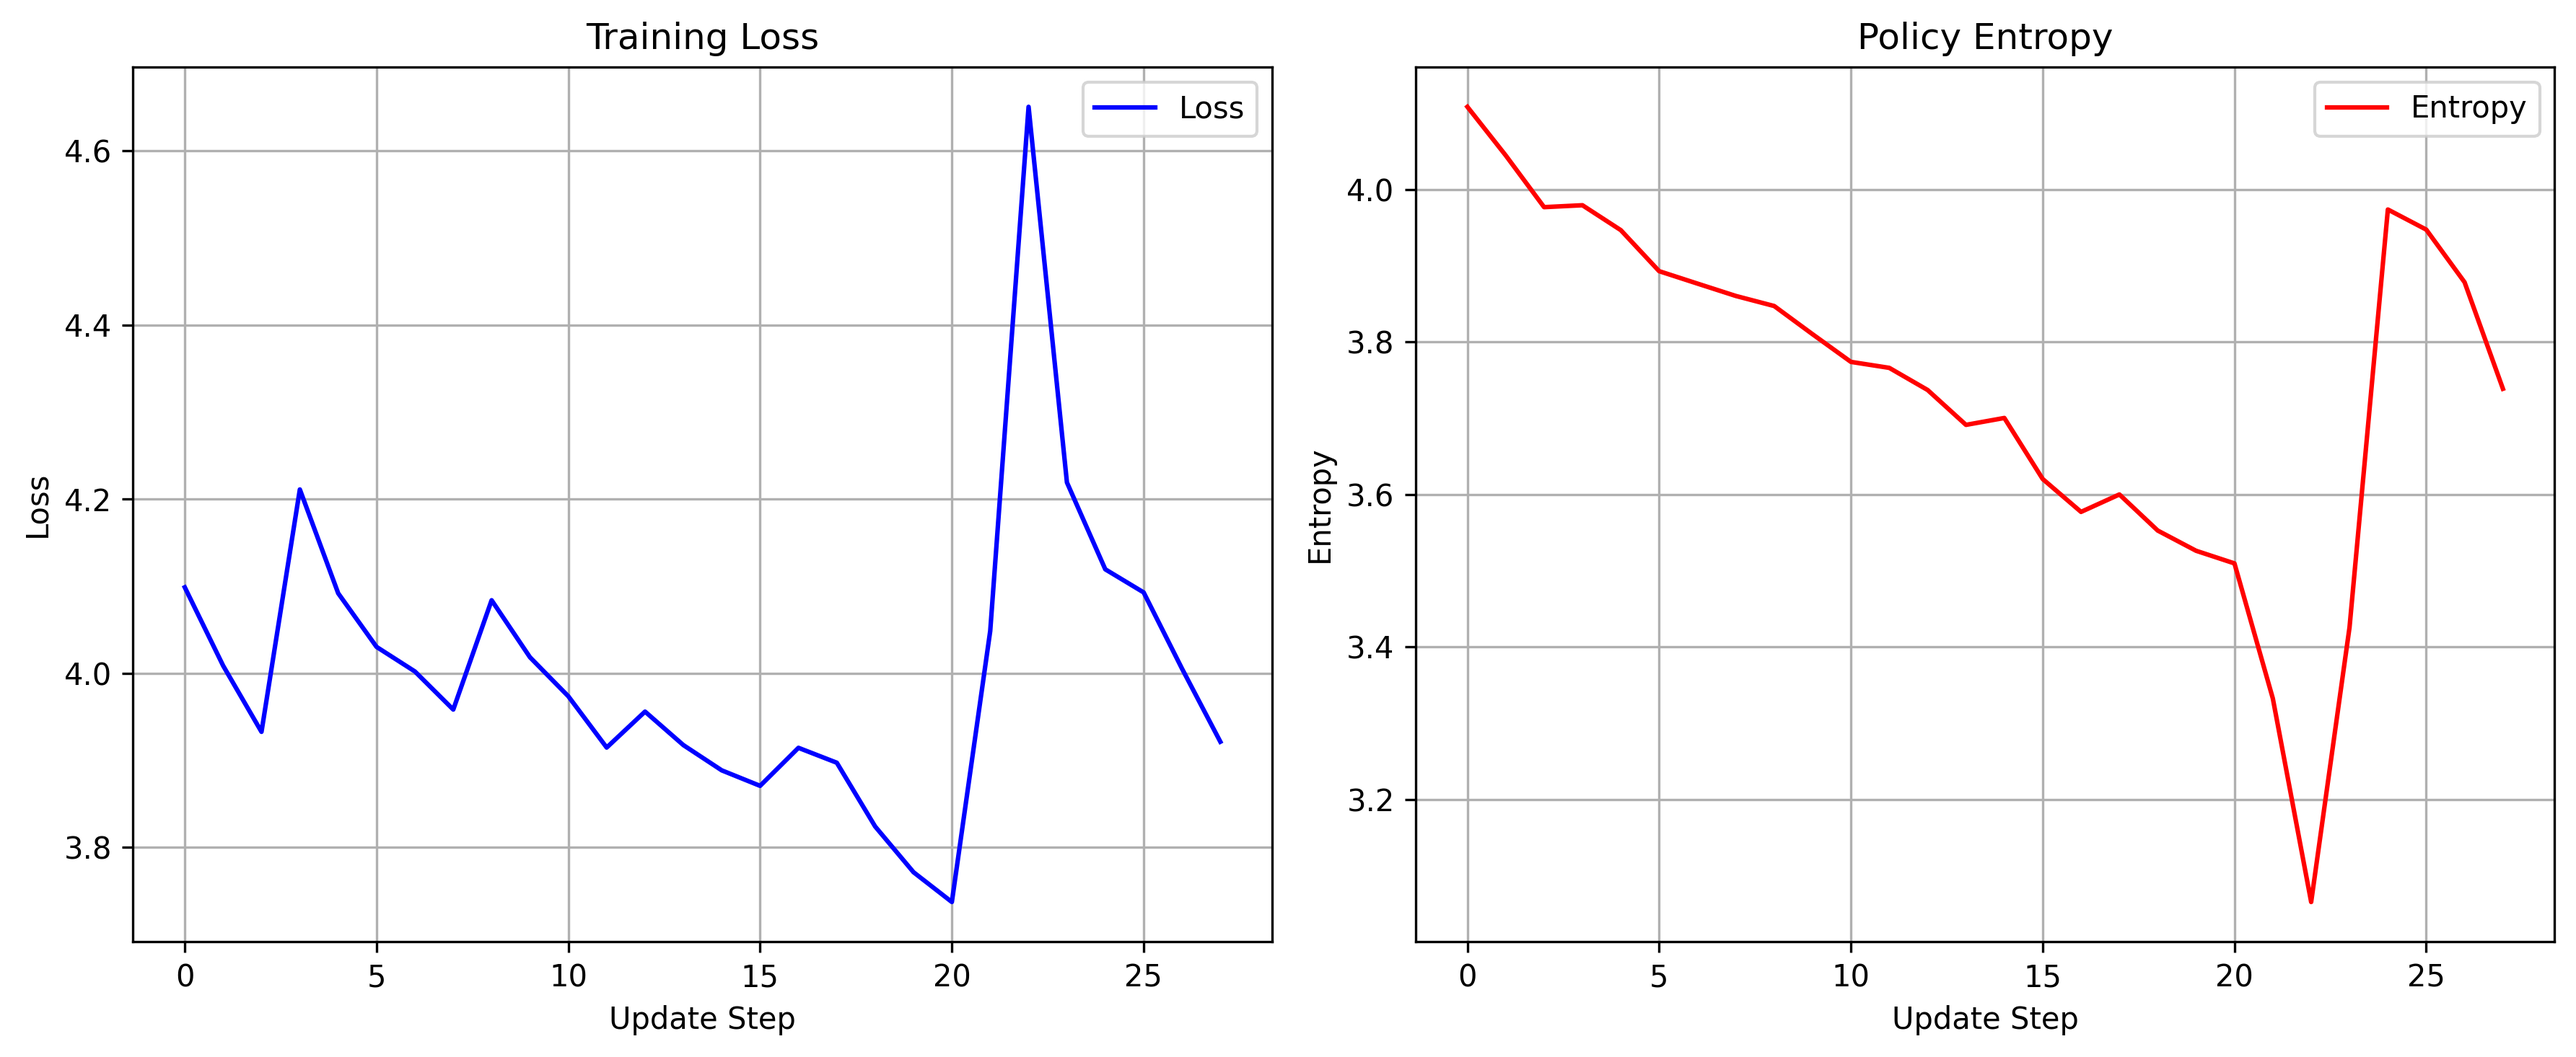
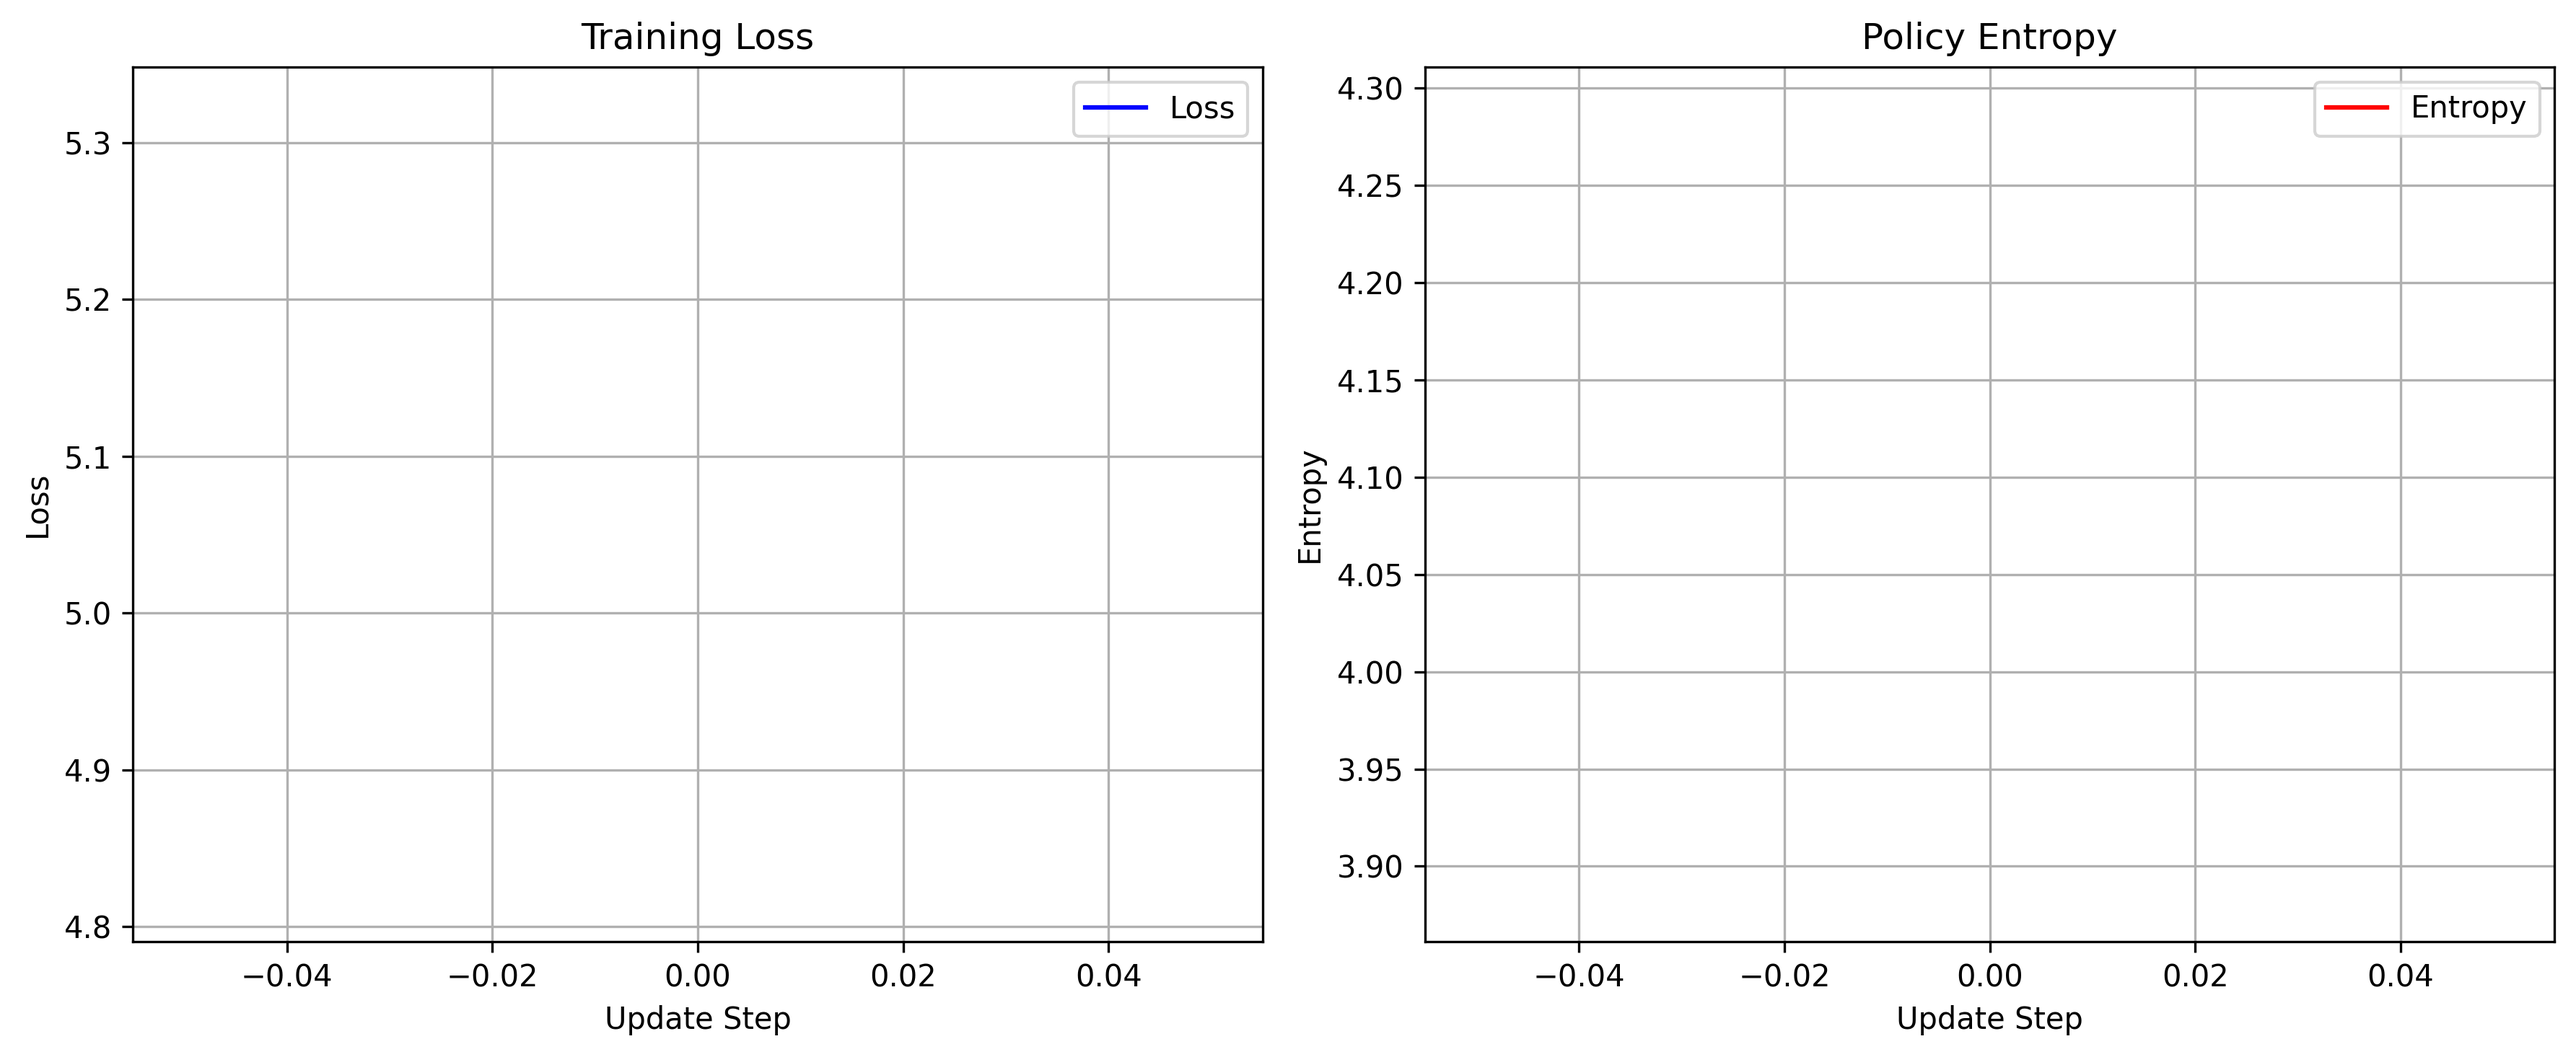
調整

diff --git a/alpha_gomoku2/alphazero.py b/alpha_gomoku2/alphazero.py
@@ -88,7 +88,7 @@ class AlphaZero:
         self.learn_rate = 2e-3  # 学習率
         self.lr_multiplier = 1.0  # 学習率の乗数、KLに基づいて調整
         self.temp = 1.0  # 温度パラメータ
-        self.n_playout = 400  # 各着手ごとのプレイアウト回数
+        self.n_playout = 100     # 各着手ごとのプレイアウト回数
         self.c_puct = 5  # UCBスコアの探索項の係数
         self.buffer_size = 10000  # 経験再生バッファのサイズ
         self.batch_size = 512  # トレーニング時のバッチサイズ
@@ -96,7 +96,7 @@ class AlphaZero:
         self.play_batch_size = 1  # 自己対戦の並列実行数
         self.epochs = 20  # 各更新ステップでのエポック数
         self.kl_targ = 0.02 # KLダイバージェンスの目標値
-        self.check_freq = 50  # モデル評価の頻度
+        self.check_freq = 10 # モデル評価の頻度（10ゲームごと）
         self.game_batch_num = 5000  # 1回のトレーニングサイクルでプレイするゲーム数
         self.best_win_ratio = 0.0  # 最善モデルの勝率
         
@@ -316,6 +316,13 @@ class AlphaZero:
         自己対戦データの収集、ポリシーの更新、モデルの評価を繰り返します。
         """
         try:
+            # トレーニング開始時に初期の最善モデルを保存（存在しない場合）
+            import os
+            if not os.path.exists('./best_policy.model'):
+                print("初期の最善ポリシーモデルを保存しています...")
+                self.policy_value_net.save_model('./best_policy.model')
+                print("初期の最善ポリシーモデルを保存しました。")
+            
             # 指定されたゲームバッチ数だけトレーニングサイクルを繰り返す
             for i in range(self.game_batch_num):
                 # 自己対戦データを収集する
@@ -336,9 +343,9 @@ class AlphaZero:
                     # Lossグラフを保存
                     self.save_loss_graph()
                     
-                    # 新しいモデルが最善モデルを上回った場合
-                    if win_ratio > self.best_win_ratio:
-                        print("新しい最善ポリシーが見つかりました！")
+                    # 新しいモデルが最善モデルを上回った場合（勝率55%以上）
+                    if win_ratio > max(self.best_win_ratio, 0.55):
+                        print(f"新しい最善ポリシーが見つかりました！（勝率: {win_ratio:.3f}）")
                         self.best_win_ratio = win_ratio
                         # 最善ポリシーを更新して保存
                         self.policy_value_net.save_model('./best_policy.model')
@@ -347,15 +354,15 @@ class AlphaZero:
             # 最終的なグラフを保存
             self.save_loss_graph()
             
-    def policy_evaluate(self, n_games=10):
+    def policy_evaluate(self, n_games=20):
         """
         現在のポリシーと最善のポリシーを比較評価します。
         n_games回対戦し、現在のポリシーの勝率を計算します。
         """
-        # 現在のポリシーを持つMCTSプレイヤーを作成
+        # 現在のポリシーを持つMCTSプレイヤーを作成（わずかに探索を増やす）
         current_mcts_player = MCTSPlayer(self.policy_value_net.policy_value_fn,
                                          c_puct=self.c_puct,
-                                         n_playout=self.n_playout,
+                                         n_playout=self.n_playout + 20,  # わずかに多く探索
                                          is_selfplay=False)
         # 最善のポリシーをロードしてMCTSプレイヤーを作成
         best_policy = PolicyValueNet(self.board_size, env=self.env)
@@ -364,29 +371,44 @@ class AlphaZero:
             import os
             if os.path.exists('./best_policy.model'):
                 best_policy.load_model('./best_policy.model')
+                print("最善のポリシーモデルをロードしました。")
             else:
-                # モデルが存在しない場合は、勝率を0として扱い、現在のモデルが最善となるようにする
+                # モデルが存在しない場合は、現在のモデルを最善モデルとして保存
                 print("最善のポリシーモデルが見つかりません。現在のモデルを最善として保存します。")
-                return 0.0
+                self.policy_value_net.save_model('./best_policy.model')
+                # 初回の場合は勝率を0.55として返し、現在のモデルが更新されるようにする
+                return 0.55
         except Exception as e:
             # モデルのロードに失敗した場合
             print(f"最善のポリシーモデルのロードに失敗しました: {e}")
-            return 0.0
+            # 現在のモデルを最善モデルとして保存
+            self.policy_value_net.save_model('./best_policy.model')
+            return 0.55
 
         best_mcts_player = MCTSPlayer(best_policy.policy_value_fn,
                                       c_puct=self.c_puct,
-                                      n_playout=self.n_playout,
+                                      n_playout=self.n_playout,  # 標準の探索回数
                                       is_selfplay=False)
 
         win_cnt = 0
+        draw_cnt = 0
+        current_wins_as_first = 0
+        current_wins_as_second = 0
+        
+        print("評価開始: 現在のモデル vs 最善のモデル")
+        
         # n_games/2 回、現在のプレイヤーが先手で対戦
         for i in range(n_games // 2):
             winner = self.game.start_play(current_mcts_player,
                                           best_mcts_player,
                                           start_player=0,
                                           is_shown=0)
-            if winner == 1: # 現在のプレイヤー(player1)が勝利
+            if winner == 1:  # 現在のプレイヤー(player1)が勝利
                 win_cnt += 1
+                current_wins_as_first += 1
+            elif winner == 0:  # 引き分け
+                draw_cnt += 1
+            print(f"先手戦 {i+1}/{n_games//2}: 勝者 = {winner}")
         
         # n_games/2 回、現在のプレイヤーが後手で対戦
         for i in range(n_games // 2):
@@ -394,11 +416,19 @@ class AlphaZero:
                                           current_mcts_player,
                                           start_player=0,
                                           is_shown=0)
-            if winner == -1: # 現在のプレイヤー(player2)が勝利
+            if winner == -1:  # 現在のプレイヤー(player2)が勝利
                 win_cnt += 1
+                current_wins_as_second += 1
+            elif winner == 0:  # 引き分け
+                draw_cnt += 1
+            print(f"後手戦 {i+1}/{n_games//2}: 勝者 = {winner}")
         
         win_ratio = win_cnt / n_games
-        print(f"対戦結果: {win_cnt}勝 / {n_games}戦, 勝率: {win_ratio}")
+        print(f"詳細結果:")
+        print(f"  先手での勝利: {current_wins_as_first}/{n_games//2}")
+        print(f"  後手での勝利: {current_wins_as_second}/{n_games//2}")
+        print(f"  引き分け: {draw_cnt}/{n_games}")
+        print(f"  総合結果: {win_cnt}勝 / {n_games}戦, 勝率: {win_ratio:.3f}")
         return win_ratio
     
     def _simulate(self, data):

diff --git a/alpha_gomoku2/game.py b/alpha_gomoku2/game.py
@@ -10,28 +10,119 @@ class Game(object):
         self.lastmove = env.lastmove
 
     def start_play(self, player1, player2, start_player=0, is_shown=1):
+        """
+        2人のプレイヤー間でゲームを開始します。
+        player1, player2: プレイヤーオブジェクト
+        start_player: 先手プレイヤー（0=player1, 1=player2）
+        is_shown: ゲームの進行状況を表示するかどうか
+        """
         if start_player not in (0, 1):
-         raise Exception('start_player should be either 0 (player1 first) '
-                        'or 1 (player2 first)')
+            raise Exception('start_player should be either 0 (player1 first) '
+                           'or 1 (player2 first)')
+        
+        # 新しいゲーム環境を初期化
         self.env = GomokuEnv(board_size=self.board_size)
-        p1, p2 = 1,2
-        player1.set_player_ind(p1)
-        player2.set_player_ind(p2)
-        players = {p1: player1, p2: player2}
+        
+        # start_playerに基づいてプレイヤーの割り当てを決定
+        if start_player == 0:
+            # player1が先手（プレイヤー1）
+            p1, p2 = 1, 2
+            player1.set_player_ind(p1)
+            player2.set_player_ind(p2)
+            players = {p1: player1, p2: player2}
+        else:
+            # player2が先手（プレイヤー1）
+            p1, p2 = 1, 2
+            player1.set_player_ind(p2)
+            player2.set_player_ind(p1)
+            players = {p1: player2, p2: player1}
+        
         if is_shown:
             print(f"Game start: Player {p1} vs Player {p2}")
-            # self.env.board.PrintBoard()
-        _, reward, done, _ = self.env.step(None)  # 初期化
+            print(f"先手: Player {p1 if start_player == 0 else p2}")
+        
+
+        
+        # ゲームループ
+        move_count = 0
+        max_moves = self.board_size * self.board_size  # 最大手数制限
+        done = False
+        while not done and move_count < max_moves:
+            # 現在のプレイヤーを決定
+            current_player = self.env.current_player
+            
+            if is_shown:
+                print(f"\n--- 手番 {move_count + 1}: Player {current_player} ---")
+            
+            # プレイヤーから行動を取得
+            if current_player in players:
+                try:
+                    move = players[current_player].get_action(self.env)
+                    if is_shown:
+                        print(f"Player {current_player} の手: {move}")
+                except Exception as e:
+                    if is_shown:
+                        print(f"Player {current_player} でエラーが発生: {e}")
+                    # エラーが発生した場合、相手の勝利とする
+                    if current_player == 1:
+                        return -1  # Player 2の勝利
+                    else:
+                        return 1   # Player 1の勝利
+            else:
+                if is_shown:
+                    print(f"不正なプレイヤー: {current_player}")
+                break
+            
+            # 行動を実行
+            try:
+                _, reward, done, _ = self.env.step(move)
+                move_count += 1
+                
+                if is_shown and hasattr(self.env.board, 'PrintBoard'):
+                    self.env.board.PrintBoard()
+                
+            except Exception as e:
+                if is_shown:
+                    print(f"無効な手: {move}, エラー: {e}")
+                # 無効な手を打った場合、相手の勝利とする
+                if current_player == 1:
+                    return -1  # Player 2の勝利
+                else:
+                    return 1   # Player 1の勝利
+        
+        # ゲーム終了処理
         if done:
+            self.env.board.PrintBoard()
             if is_shown:
                 if reward == 1:
-                    print(f"Player {p1} wins!")
+                    print(f"\nゲーム終了: 先手（Player 1）の勝利!")
                 elif reward == -1:
-                    print(f"Player {p2} wins!")
+                    print(f"\nゲーム終了: 後手（Player 2）の勝利!")
                 else:
-                    print("It's a draw!")
-            return reward
+                    print("\nゲーム終了: 引き分け!")
             
+            # AlphaZeroの評価に合わせた勝敗判定を返す
+            if start_player == 0:
+                # player1が先手の場合
+                if reward == 1:
+                    return 1  # player1（現在のモデル）の勝利
+                elif reward == -1:
+                    return -1  # player2（最善のモデル）の勝利
+                else:
+                    return 0  # 引き分け
+            else:
+                # player2が先手の場合
+                if reward == 1:
+                    return -1  # player2（最善のモデル）の勝利
+                elif reward == -1:
+                    return 1  # player1（現在のモデル）の勝利
+                else:
+                    return 0  # 引き分け
+        else:
+            # 最大手数に達した場合は引き分け
+            if is_shown:
+                print(f"\nゲーム終了: 最大手数 {max_moves} に達しました。引き分け!")
+            return 0
         
     def start_self_play(self, player, is_shown=0, temp=1e-3):
         """
